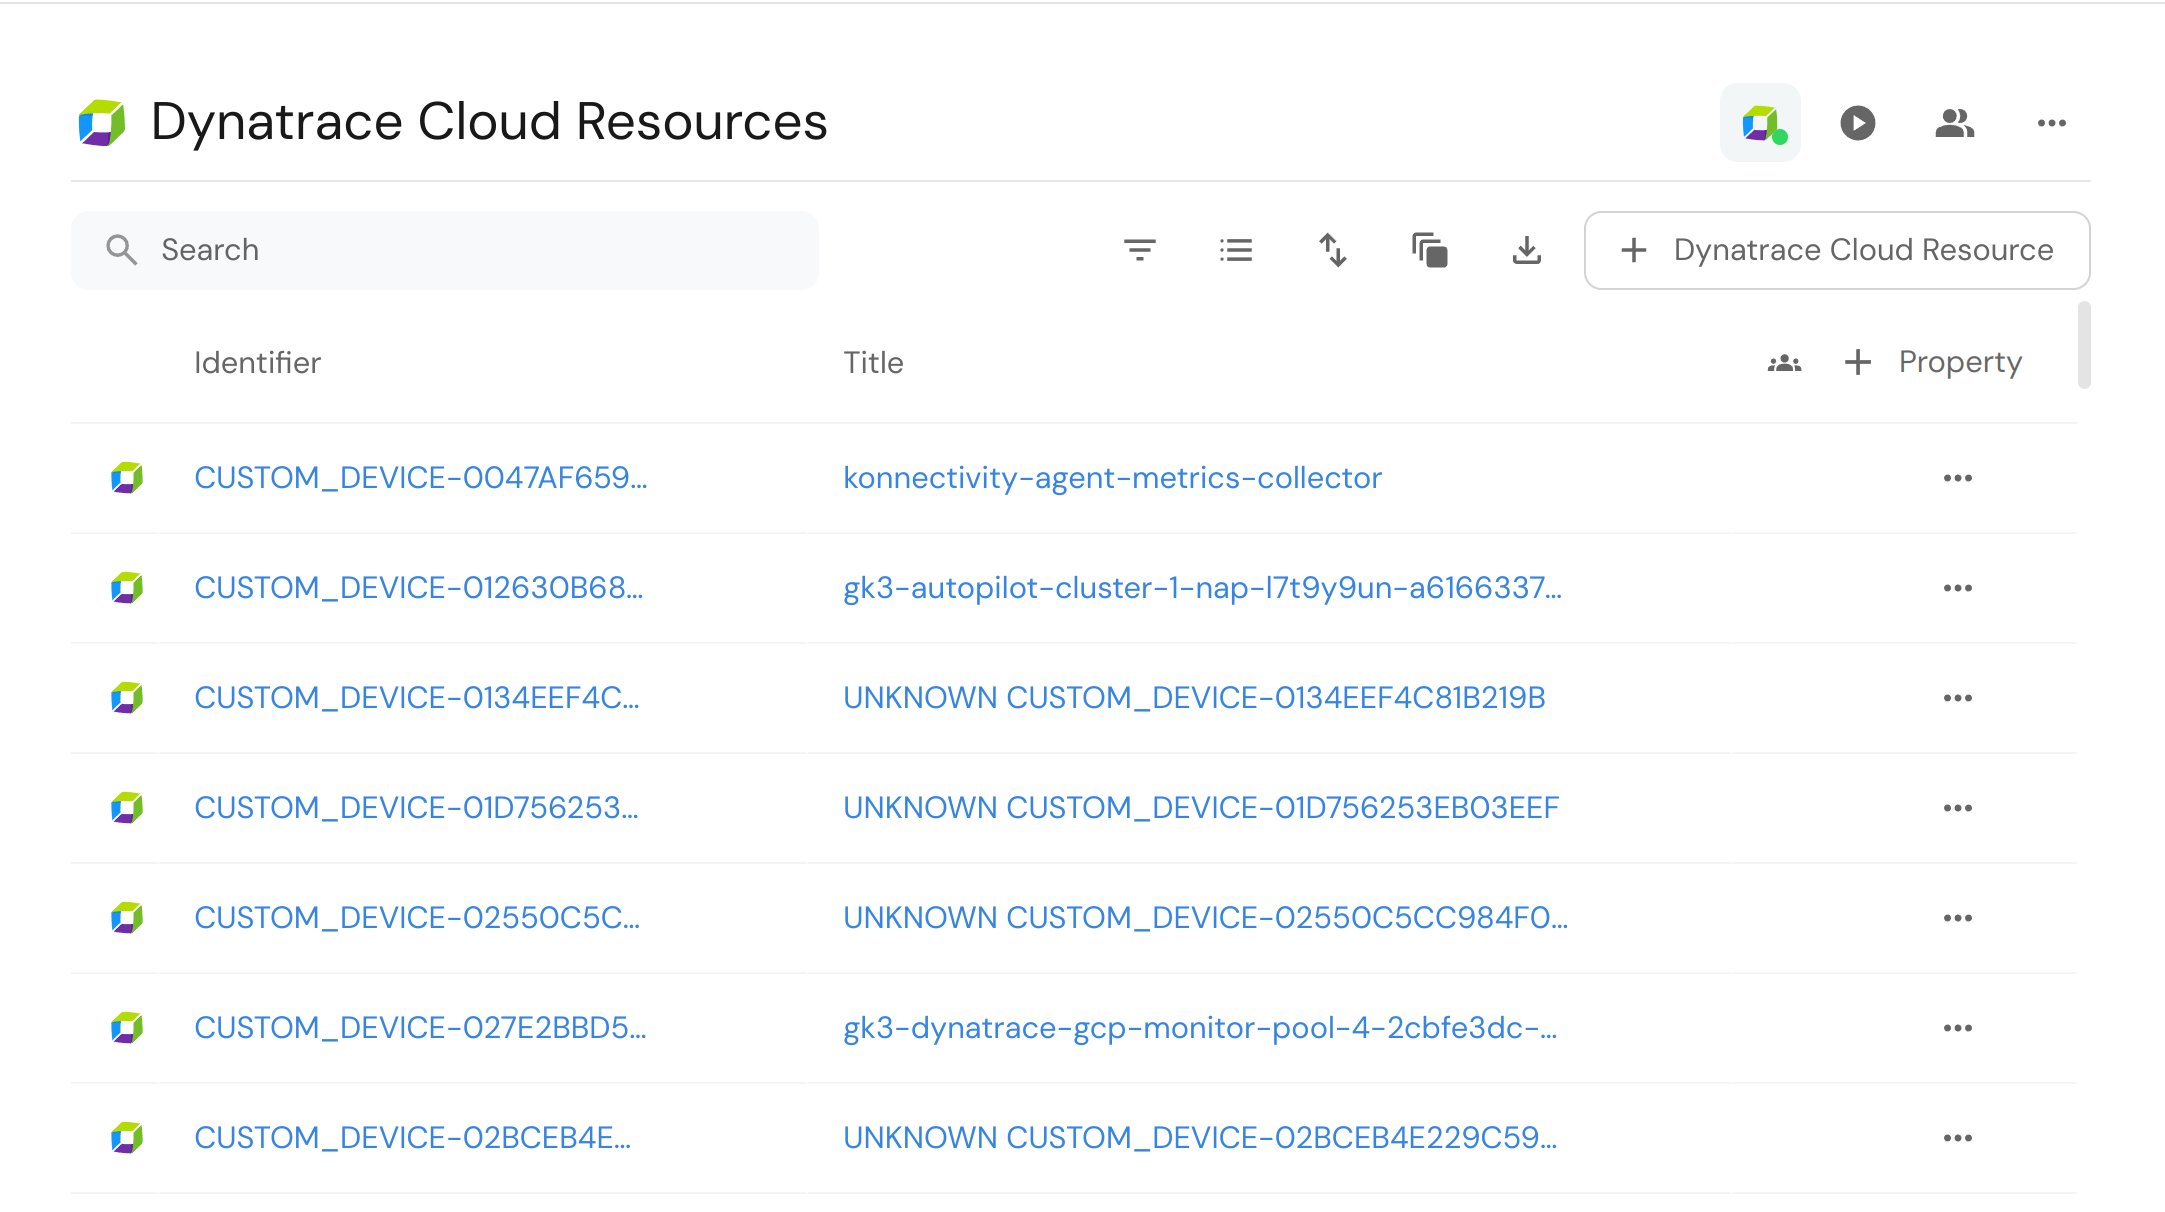
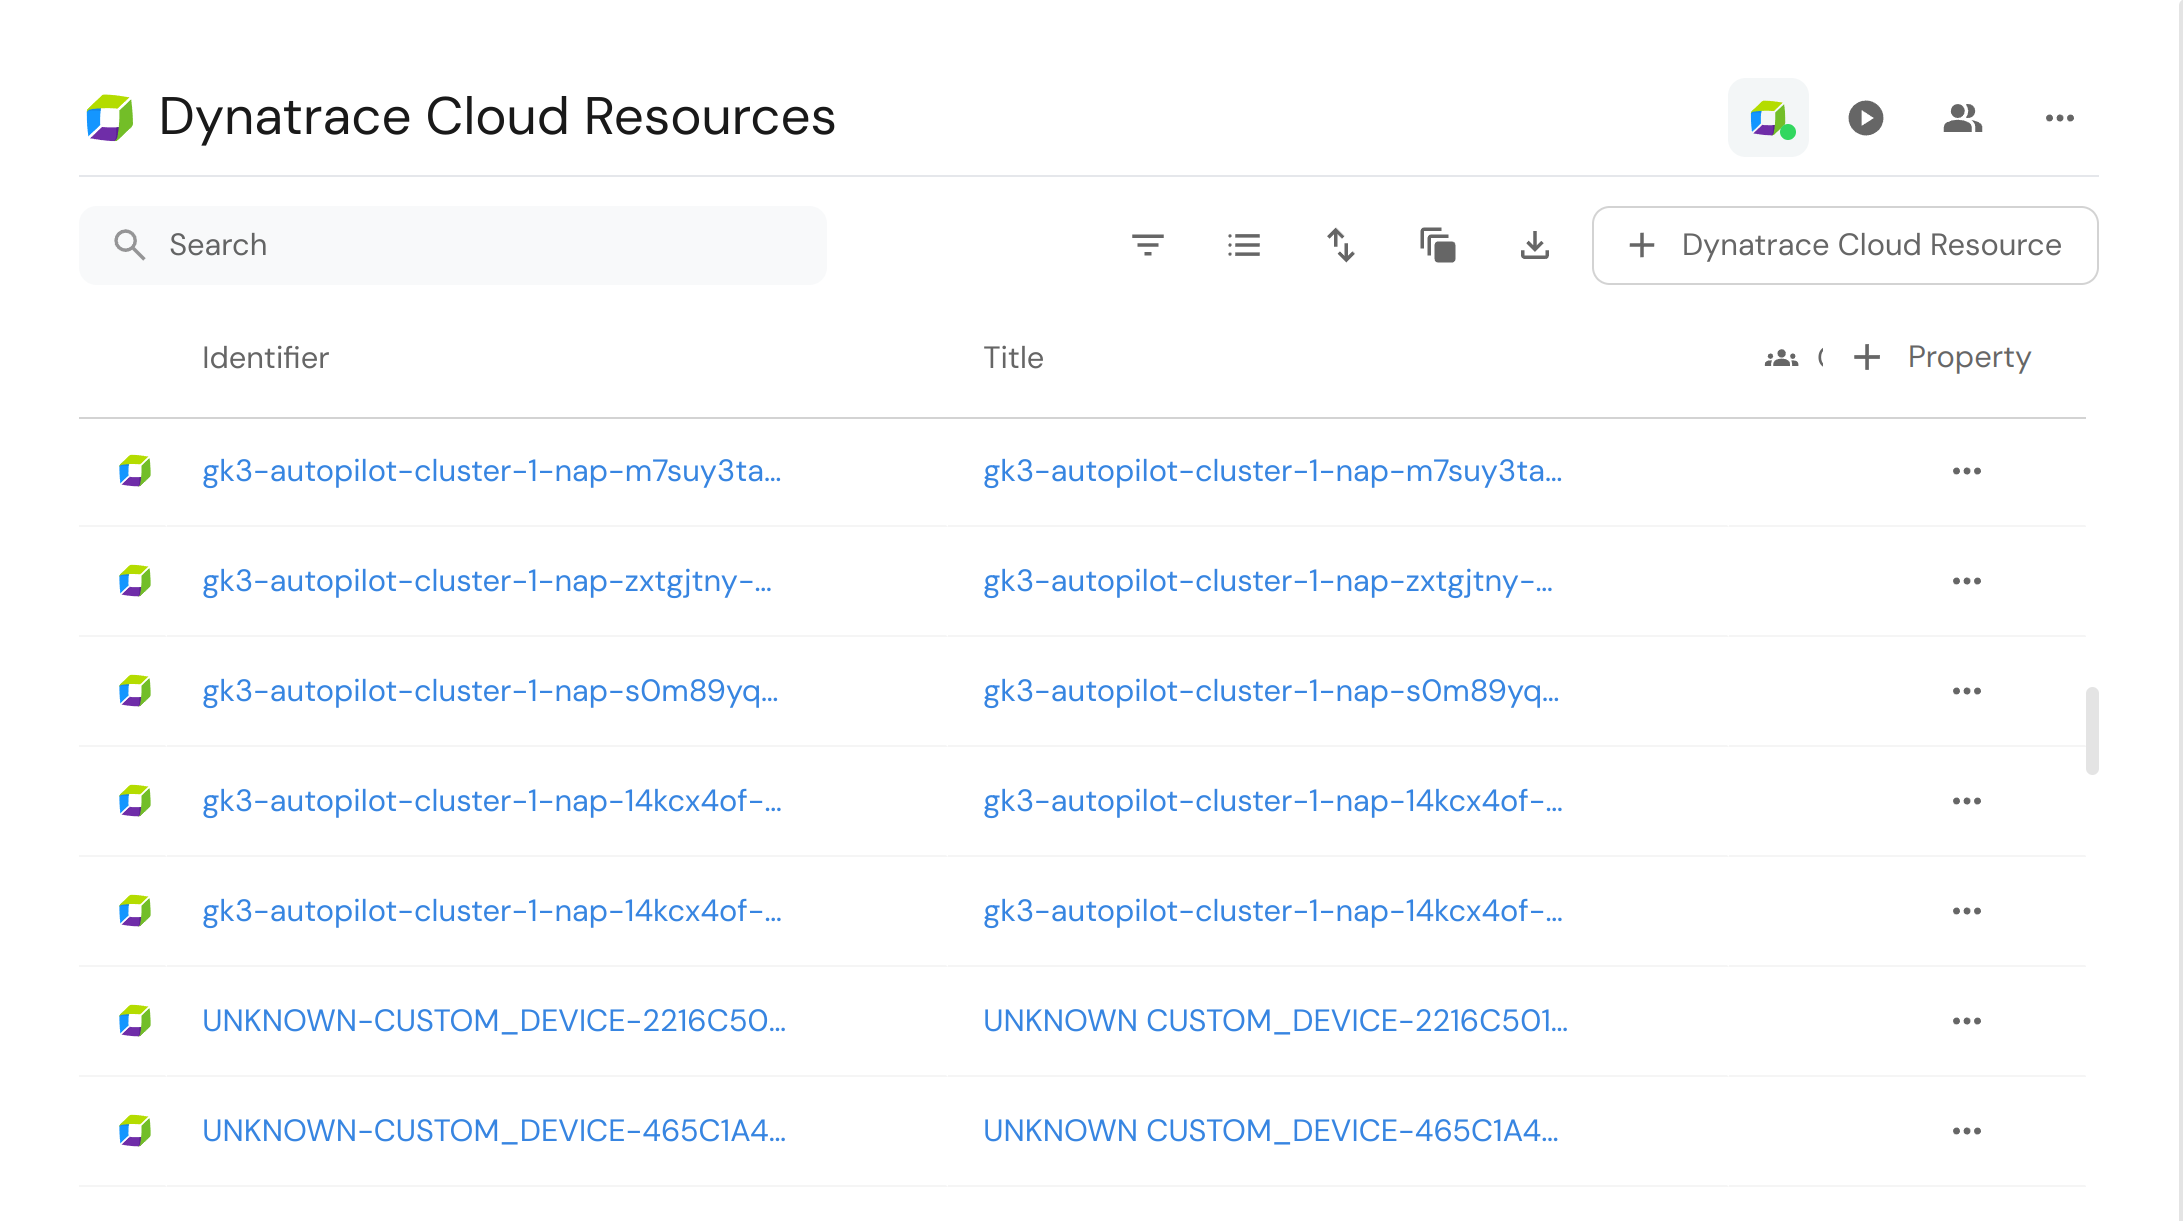
Changed image for dynatrace guide

diff --git a/docs/build-your-software-catalog/sync-data-to-catalog/apm-alerting/dynatrace/guides/ingest-cloud-resources-using-dynatrace.md b/docs/build-your-software-catalog/sync-data-to-catalog/apm-alerting/dynatrace/guides/ingest-cloud-resources-using-dynatrace.md
@@ -123,7 +123,7 @@ resources:
     port:
       entity:
         mappings:
-          identifier: .entityId
+          identifier: .displayName | gsub(" "; "-")
           title: .displayName
           blueprint: '"dynatraceEntityCloudResource"'
           properties:
@@ -140,7 +140,7 @@ Next, click on resync and watch your cloud resources from Dynatrace being ingest
 
 <img src='/img/build-your-software-catalog/sync-data-to-catalog/apm-alerting/dynatrace/guides/dynatraceCloudResourcesResults.png' border='1px' />
 
-
+![alt text](image.png)
 ### Cloud entity types
 The `entityTypes` selector in the mapping above are entity types that corresponds to possible cloud resources in your Dynatrace environment. However, these are not the only types that are cloud resources. You can get the list of entity types, by making a GET request to `https://<your dynatrace environment ID>.live.dynatrace.com/api/v2/entityTypes`. Below is an exhaustive list of entity types you can use in the `entityTypes` selector:
 
